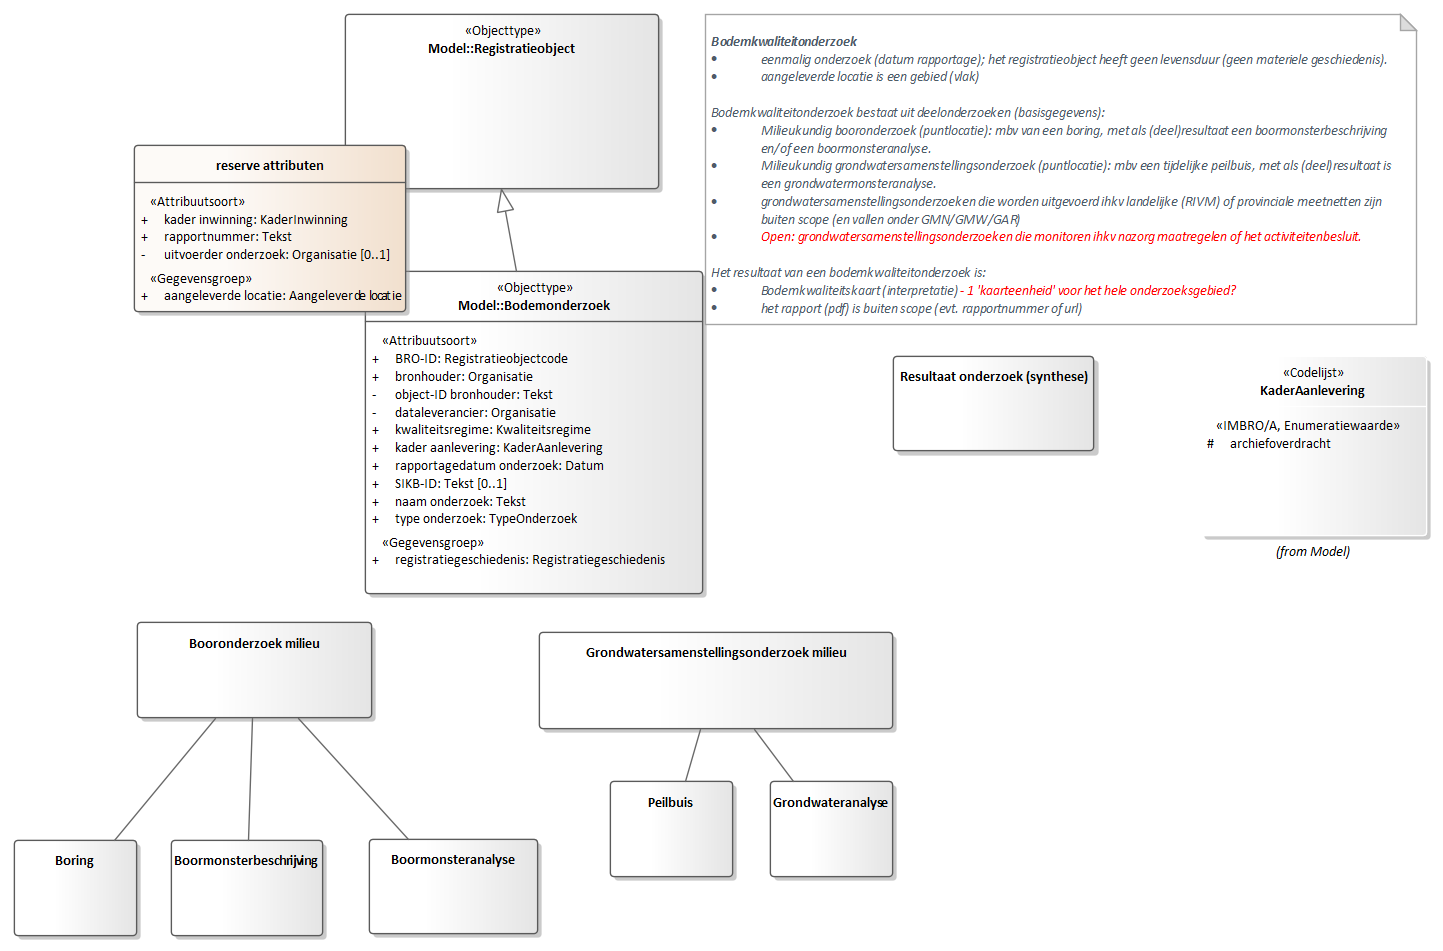
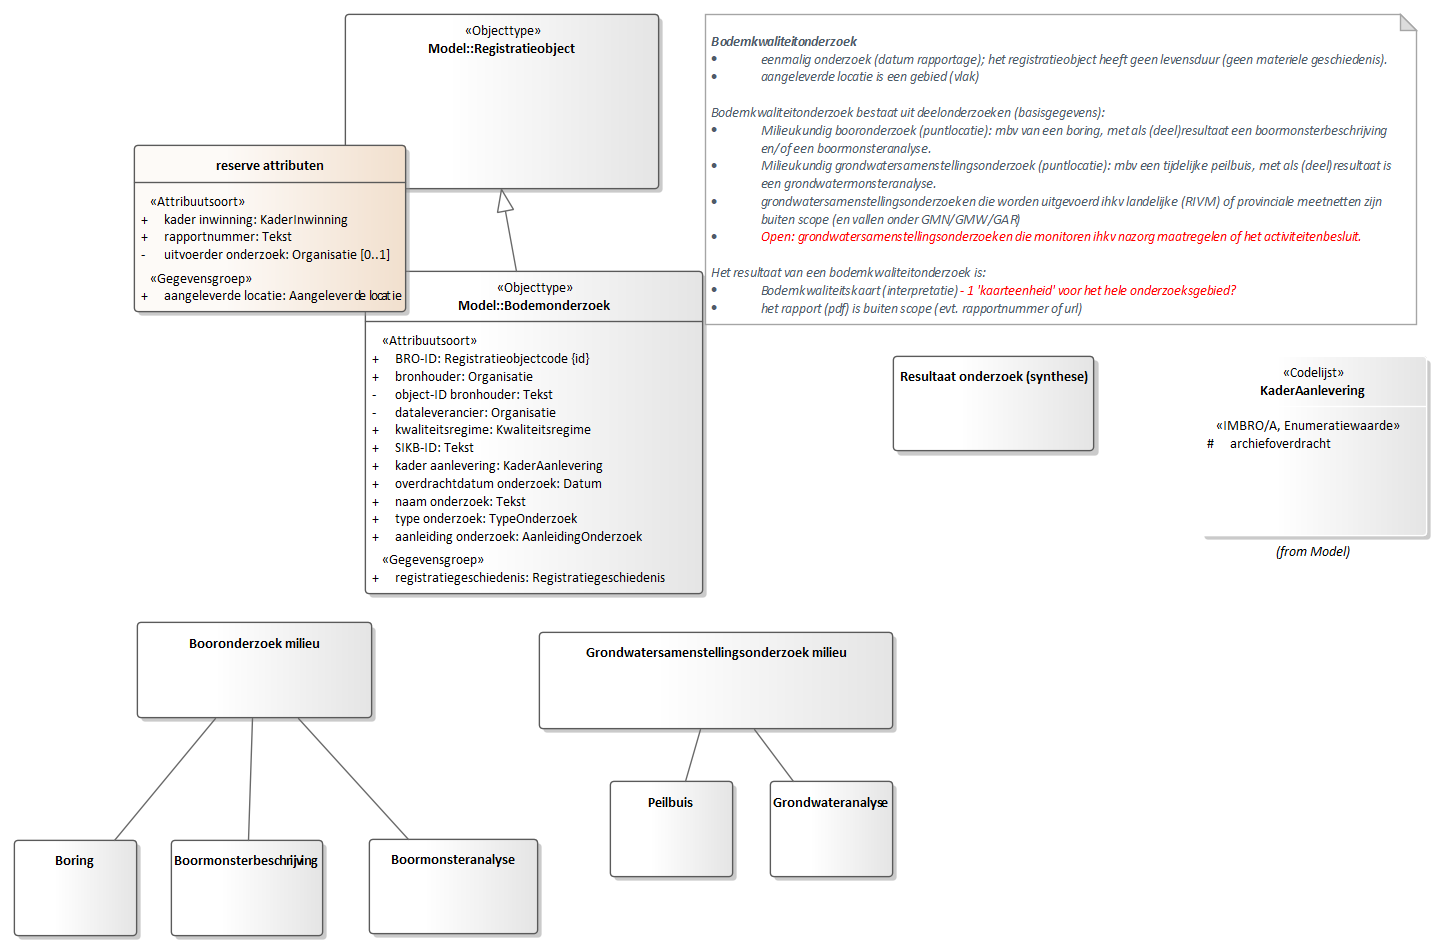
Conceptualmodel-MilieuhygienischbodemonderzoekSAD-1.0-1-20221101-20230119-101244

Changed region(s): [[0.2495, 0.5489, 0.4678, 0.6099], [0.2807, 0.4574, 0.4366, 0.5184]]

diff --git a/data/SAD-cat.msword.html b/data/SAD-cat.msword.html
@@ -14,8 +14,8 @@
    </head>
    <body>
       <p>Conceptual model/Milieuhygienisch bodemonderzoek SAD/20221101</p>
-      <p>Imvertor: Nightly-build.3</p>
-      <p>Model release: Conceptualmodel-MilieuhygienischbodemonderzoekSAD-1.0-1-20221101-20230119-100322</p>
+      <p>Imvertor: 1.67.1</p>
+      <p>Model release: Conceptualmodel-MilieuhygienischbodemonderzoekSAD-1.0-1-20221101-20230119-101244</p>
       <hr>
       <section>
          <h1>Artikel 1 Definitie van registratieobject, entiteiten en attributen</h1>
@@ -64,12 +64,17 @@
          </section>
          <section>
             <h2>Het domeinmodel</h2>
-            <section id=""></section>
+            <section id="">
+               <div class="imageinfo overview"><img src="Images/EAID_FABA90F8_223C_433d_BAE3_74F87B3DC220.png" usemap="#imagemap-EAID_FABA90F8_223C_433d_BAE3_74F87B3DC220" alt="Diagram &#xA;                        &#xA;                     "><map name="imagemap-EAID_FABA90F8_223C_433d_BAE3_74F87B3DC220"><area shape="rect" alt="Bodemonderzoek" coords="14,14,386,358" href="#graph_EAID_ABAADB49_C747_4775_A739_CC832CAD59F1"></map><p><b>Domeinmodel milieuhygienisch bodemonderzoek</b></p>
+               </div>
+            </section>
          </section>
          <section>
             <h2>Entiteiten en attributen</h2>
             <section id=""><a class="anchor" id="graph_EAID_ABAADB49_C747_4775_A739_CC832CAD59F1"></a><a class="anchor" id="global_class_Model_Bodemonderzoek"></a><section id="global_class_Model_Bodemonderzoek">
                   <h3>   Bodemonderzoek</h3>
+                  <div class="imageinfo "><img src="Images/EAID_6947001B_5B81_47f2_B8DC_8E20C90445C9.png" usemap="#imagemap-EAID_6947001B_5B81_47f2_B8DC_8E20C90445C9" alt="Diagram "><map name="imagemap-EAID_6947001B_5B81_47f2_B8DC_8E20C90445C9"><area shape="rect" alt="Bodemonderzoek" coords="14,14,434,354" href="#graph_EAID_ABAADB49_C747_4775_A739_CC832CAD59F1"></map><p><b></b></p>
+                  </div>
                   <table style="width: 100%;">
                      <colgroup style="width: 30%;"></colgroup>
                      <colgroup style="width: 70%;"></colgroup>
@@ -620,7 +625,7 @@
                            </tr>
                         </tbody>
                      </table>
-                     </section><a class="anchor" id="detail_d16627e2233"></a><section id="detail_d16627e2233">
+                     </section><a class="anchor" id="detail_d16230e2233"></a><section id="detail_d16230e2233">
                      <h4>  registratiegeschiedenis</h4>
                      <table style="width: 100%;">
                         <colgroup style="width: 30%;"></colgroup>
@@ -656,6 +661,8 @@
                   </section>
                </section><a class="anchor" id="graph_EAID_12E1A894_EB8E_4245_B745_ED1899B2A278"></a><a class="anchor" id="global_class_Model_Registratiegeschiedenis"></a><section id="global_class_Model_Registratiegeschiedenis">
                   <h3>   Registratiegeschiedenis</h3>
+                  <div class="imageinfo "><img src="Images/EAID_E20384CA_0679_42fb_A249_017A598CA755.png" usemap="#imagemap-EAID_E20384CA_0679_42fb_A249_017A598CA755" alt="Diagram "><map name="imagemap-EAID_E20384CA_0679_42fb_A249_017A598CA755"><area shape="rect" alt="Registratiegeschiedenis" coords="14,14,372,309" href="#graph_EAID_12E1A894_EB8E_4245_B745_ED1899B2A278"></map><p><b></b></p>
+                  </div>
                   <table style="width: 100%;">
                      <colgroup style="width: 30%;"></colgroup>
                      <colgroup style="width: 70%;"></colgroup>

diff --git a/data/SAD-cat.respec.html b/data/SAD-cat.respec.html
@@ -43,10 +43,14 @@
       </section>
    <section id="">
       <h2>Het domeinmodel   </h2>
+      <div class="imageinfo overview"><img src="data/Images/EAID_FABA90F8_223C_433d_BAE3_74F87B3DC220.png" usemap="#imagemap-EAID_FABA90F8_223C_433d_BAE3_74F87B3DC220" alt="Diagram &#xA;                        &#xA;                     "><map name="imagemap-EAID_FABA90F8_223C_433d_BAE3_74F87B3DC220"><area shape="rect" alt="Bodemonderzoek" coords="14,14,386,358" href="#graph_EAID_ABAADB49_C747_4775_A739_CC832CAD59F1"></map><p><b>Domeinmodel milieuhygienisch bodemonderzoek</b></p>
+      </div>
    </section>
    <section id="">
       <h2>Entiteittypen en attributen   </h2><a class="anchor" id="graph_EAID_ABAADB49_C747_4775_A739_CC832CAD59F1"></a><a class="anchor" id="global_class_Model_Bodemonderzoek"></a><section id="global_class_Model_Bodemonderzoek">
          <h3>   Bodemonderzoek</h3>
+         <div class="imageinfo "><img src="data/Images/EAID_6947001B_5B81_47f2_B8DC_8E20C90445C9.png" usemap="#imagemap-EAID_6947001B_5B81_47f2_B8DC_8E20C90445C9" alt="Diagram "><map name="imagemap-EAID_6947001B_5B81_47f2_B8DC_8E20C90445C9"><area shape="rect" alt="Bodemonderzoek" coords="14,14,434,354" href="#graph_EAID_ABAADB49_C747_4775_A739_CC832CAD59F1"></map><p><b></b></p>
+         </div>
          <table style="width: 100%;">
             <colgroup style="width: 30%;"></colgroup>
             <colgroup style="width: 70%;"></colgroup>
@@ -597,7 +601,7 @@
                   </tr>
                </tbody>
             </table>
-            </section><a class="anchor" id="detail_d16627e2233"></a><section id="detail_d16627e2233">
+            </section><a class="anchor" id="detail_d16230e2233"></a><section id="detail_d16230e2233">
             <h4>  registratiegeschiedenis</h4>
             <table style="width: 100%;">
                <colgroup style="width: 30%;"></colgroup>
@@ -633,6 +637,8 @@
          </section>
       </section><a class="anchor" id="graph_EAID_12E1A894_EB8E_4245_B745_ED1899B2A278"></a><a class="anchor" id="global_class_Model_Registratiegeschiedenis"></a><section id="global_class_Model_Registratiegeschiedenis">
          <h3>   Registratiegeschiedenis</h3>
+         <div class="imageinfo "><img src="data/Images/EAID_E20384CA_0679_42fb_A249_017A598CA755.png" usemap="#imagemap-EAID_E20384CA_0679_42fb_A249_017A598CA755" alt="Diagram "><map name="imagemap-EAID_E20384CA_0679_42fb_A249_017A598CA755"><area shape="rect" alt="Registratiegeschiedenis" coords="14,14,372,309" href="#graph_EAID_12E1A894_EB8E_4245_B745_ED1899B2A278"></map><p><b></b></p>
+         </div>
          <table style="width: 100%;">
             <colgroup style="width: 30%;"></colgroup>
             <colgroup style="width: 70%;"></colgroup>
